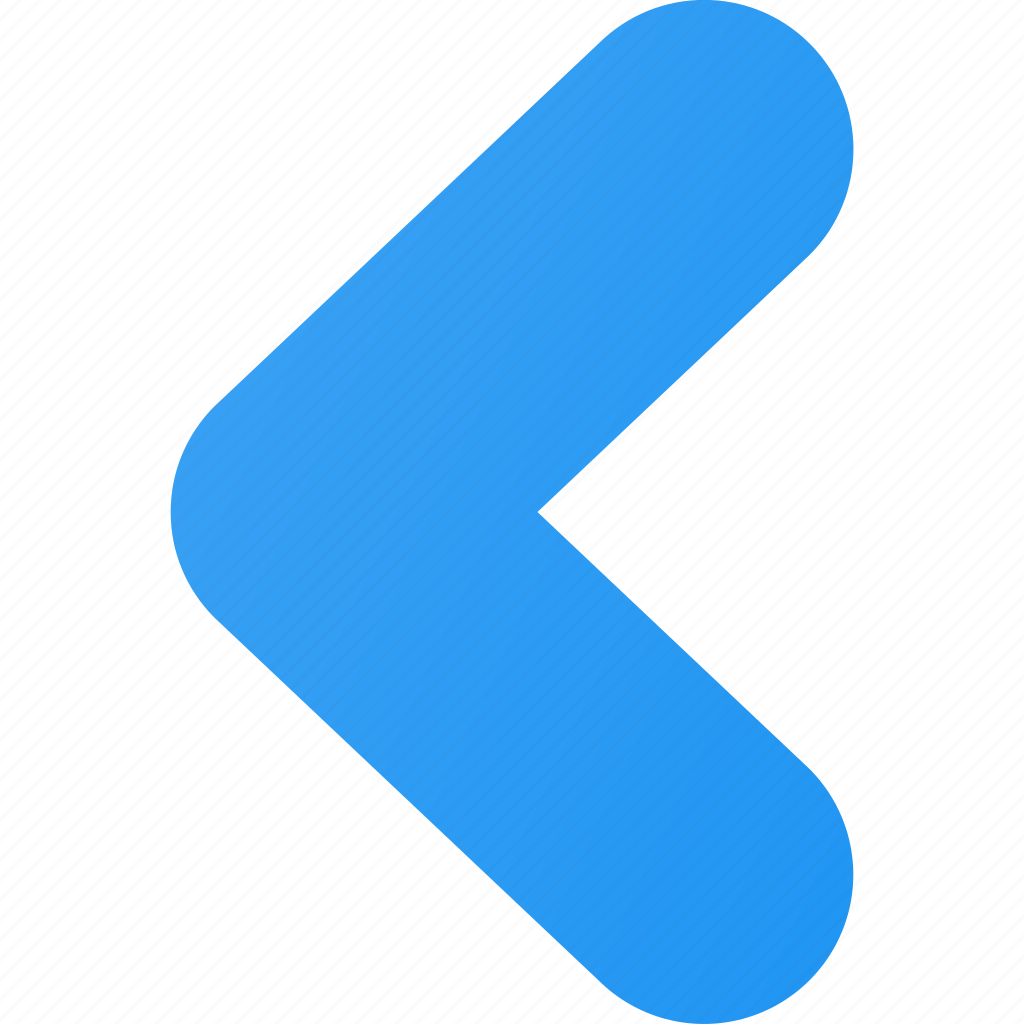
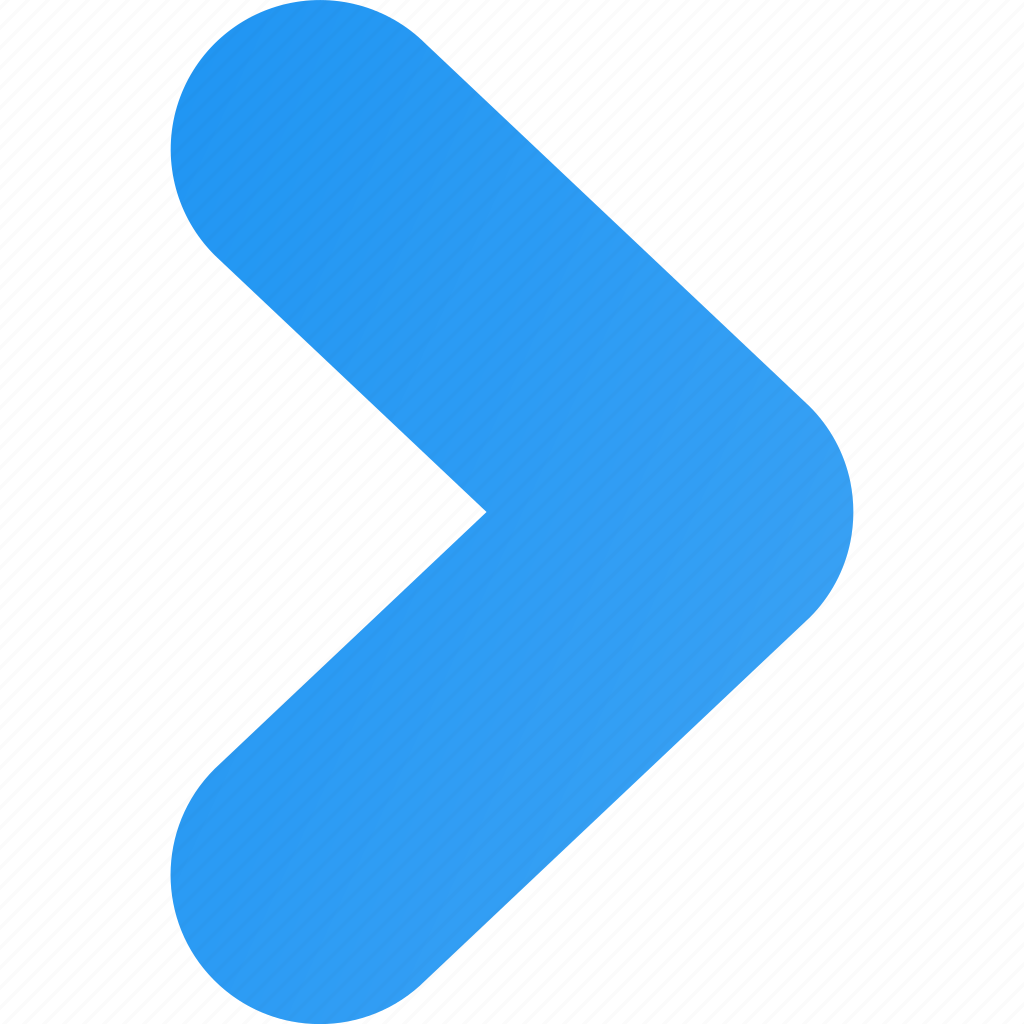
form

diff --git a/src/templates/Home/Home.jsx b/src/templates/Home/Home.jsx
@@ -1,6 +1,8 @@
 import { Link } from "react-router-dom"
 import Sidebar from '../../components/Menu/Sidebar'
 
+import ProjectForm from '../../components/Project/ProjectForm'
+
 import './Home.css';
 
 import chevron from '../../assets/images/chevron.png'
@@ -11,7 +13,7 @@ function Home() {
     const carousel = useRef(null);
 
     useEffect(() => {
-    fetch('../../../../../public/static/passeios.json')
+    fetch('/static/passeios.json')
     .then((response)=>response.json())
     .then(setData);
     }, []);
@@ -33,12 +35,12 @@ function Home() {
            <div className="p-3 w-100">
                 <nav className="fieb-logo">
                     <h1 className="title-bold">Passeios Disponíveis</h1>
-                    <h3>Passeios que estão em andamento:</h3>
+                    <h3>Passeios que estão em andamento e podem ser editados:</h3>
                         <div className="carousel" ref={carousel}>
 
 
                             {data.map((item) => {
-                                const {id, name, quant, price, unitd, local, image} = item;
+                                const {id, name, quant, price, unitd, local, data, image} = item;
                             return (
                                 <div className="item" key={id}>
                                 <div className="image">
@@ -49,7 +51,8 @@ function Home() {
                                     <span className="quant">quant. de alunos: {quant}</span>
                                     <span className="unitd">{unitd}</span>
                                     <span className="locate">{local}</span>
-                                    <span className="price">preço: {price}</span>
+                                    <span className="data">data: {data}</span>
+                                    <span className="price">preço: R${price}</span>
                                     <span className="view"><a href="/editar">Editar</a></span>
                                 </div>
                             </div>
@@ -60,13 +63,15 @@ function Home() {
                                 <button onClick={handleLeftClick}><img src={chevron} alt="scroll left" /></button>
                                 <button onClick={handleRightClick}><img src={chevron} alt="scroll right"/></button>
                             </div>
+                    <br /> <br />
+
+                    <h1 className="title-bold">Vamos Viajar?</h1>
+                    <h3>Crie o próximo passeio da FIEB:</h3>
+                            <div>
+                                <br />
+                               <ProjectForm />
+                            </div>
                     <br />
-
-                    <h1 className="title-bold">Futuros Passeios</h1>
-                    <h3>Opções que serão abertas em breve:</h3>
-
-                    
-
                     <h1 className="title-bold">Ver Avaliações</h1>
                     <h3>Avaliações Recentes:</h3>
 

diff --git a/src/templates/App/App.css b/src/templates/App/App.css
@@ -2,7 +2,7 @@
     margin: 0;
     padding: 0;
     box-sizing: border-box;
-    font-family: 'Segoe UI', Tahoma, Geneva, Verdana, sans-serif;
+    font-family: 'Segoe UI', 'Tahoma', 'Geneva', 'Verdana', 'sans-serif';
 }
 
 body {
@@ -14,79 +14,6 @@ body {
 .name{
     text-decoration: dashed;
 }
-
-
-/* Header - inicio */
-.logo {
-    height: 2em;
-}
-/* menu - inicio*/
-.menu{
-    background-color: #4D8EB2;
-    text-align: center;
- }
- .menu a {
-     color: aqua;
- }
-/* menu - fim */
-
-.navbar-nav .nav-link {
-    margin-left: 20px; 
-    color: white;
-    font-weight: 600;
-}
-.navbar-nav .nav-link:hover {
-    color: #ffcc00;
-}
-
-.btn-primary {
-    background-color: #0056b3; /* Cor do botão */
-}
-/* Header - fim */
-
-
-/* footer - inicio */
-footer{
-    background-image: linear-gradient(to bottom, #4D8EB2, #aaa);
-    padding: 10px;
-    text-align: center;
-}
-
-.fieb-tech {
-    display: center;
-    padding-top: 1em;
-    padding-bottom: 2em;
-}
-
-.titulo-footer {
-    color:aqua;
-    font-weight: bold;
-    text-align:unset;
-}
-.link-footer {
-    color:#fff;
-    text-decoration: none;
-}
-.lista-footer {
-    list-style-type: none;
-}
-
-.copyright {
-    color:aliceblue;
-    padding-top: 2em;
-    text-decoration: dashed;
-}
-
-.titleError {
-    padding-top: 1em;
-    font-weight: 700;
-}
-.Error {
-    height: 7em;
-    margin-top: 4em;
-    margin-bottom: 5.2em;
-}
-/* footer - fim */
 
 .painel {
     background-color: #fff;

diff --git a/src/components/Project/ProjectForm.jsx b/src/components/Project/ProjectForm.jsx
@@ -1,0 +1,30 @@
+import './ProjectForm.css'
+
+const ProjectForm = () => {
+
+    return (
+        <div>
+            <form>
+                <h4 className="text">Nome: <input type="text" placeholder="Insira o nome do passeio"/></h4>
+                <h4 className="text">Quant. de alunos: <input type="number" placeholder="Insira o número máx de alunos" /></h4>
+                <h4 className="text">Unidade: <select name="unitd">
+                    <option disabled selected>Selecione qual Unidade está envolvida</option>
+                    <option>ITB Brasílio Flores - Jd. Belval</option>
+                    <option>ITB Maria Theoroda - </option>
+                    <option>ITB Maria Challupe - Eng. Novo</option>
+                    <option>ITB Moacyr Domingos - Pq. Imperial</option>
+                    <option>ITB Antonio Arantes - Pq. Viana</option>
+                    <option>ITB Hércules Alves - Jd. Mutinga</option>
+                    <option>Toda a FIEB</option>
+                </select> </h4>
+                <h4 className="text">Local: <input type="text" placeholder="Insira o local do passeio:" /> </h4>
+                <h4 className="text">Valor: R$<input type="number" placeholder="Insira o valor total do passeio(ingresso + transporte):" /> </h4>
+                <div>
+                    <input type="submit" value="Criar passeio" />
+                </div>
+            </form>
+        </div>
+    )
+}
+
+export default ProjectForm

diff --git a/src/templates/Home/Home.css b/src/templates/Home/Home.css
@@ -17,7 +17,7 @@
     margin: 10px;
     padding: 10px;
     width: 280px;
-    height: 480px;
+    height: 495px;
     border-radius: 16px;
 }
 
@@ -29,7 +29,7 @@
 }
 
 .fieb-logo .carousel .item .info {
-    height: 4em;
+    height: 5em;
     display: flex;
     flex-direction: column;
     justify-content: space-between;
@@ -49,9 +49,10 @@
     font-weight: bold;
 }
 
-a{
+.fieb-logo .carousel .item .info a{
     font-style: none;
     text-decoration: none;
+    font-weight: 700;
     color: inherit;
 }
 
@@ -85,5 +86,5 @@ a{
     cursor: pointer;
 }
 .fieb-logo .buttons button:first-child img{
-    transform: rotate(180deg);
+    transform: rotate(-180deg);
 }

diff --git a/src/components/Footer/Footer.css b/src/components/Footer/Footer.css
@@ -1,0 +1,40 @@
+footer{
+    background-image: linear-gradient(to bottom, #4D8EB2, #aaa);
+    padding: 10px;
+    text-align: center;
+}
+
+.fieb-tech {
+    display: center;
+    padding-top: 1em;
+    padding-bottom: 2em;
+}
+
+.titulo-footer {
+    color:aqua;
+    font-weight: bold;
+    text-align:unset;
+}
+.link-footer {
+    color:#fff;
+    text-decoration: none;
+}
+.lista-footer {
+    list-style-type: none;
+}
+
+.copyright {
+    color:aliceblue;
+    padding-top: 2em;
+    text-decoration: dashed;
+}
+
+.titleError {
+    padding-top: 1em;
+    font-weight: 700;
+}
+.Error {
+    height: 7em;
+    margin-top: 4em;
+    margin-bottom: 5.2em;
+}

diff --git a/src/components/Project/ProjectForm.css b/src/components/Project/ProjectForm.css
@@ -1,0 +1,36 @@
+h4.text {
+    margin: 10px 0;
+    font-weight: 600;
+}
+
+input[type="text"],
+input[type="number"],
+select {
+    width:99%;
+    padding: 0px;
+    margin: 5px 0 20px;
+    border: 1px solid #ddd;
+    border-radius: 4px;
+}
+
+input[type="submit"] {
+    background-color: #4D8EB2;
+    color: white;
+    padding: 10px 15px;
+    border: none;
+    border-radius: 4px;
+    cursor: pointer;
+    transition: background-color 0.3s;
+}
+
+input[type="submit"]:hover {
+    background-color: #4d60b2;;
+}
+
+input::placeholder {
+    color: #888;
+}
+
+select {
+    cursor: pointer;
+}

diff --git a/src/components/Header/Header.css b/src/components/Header/Header.css
@@ -1,0 +1,25 @@
+.logo {
+    height: 2em;
+}
+/* menu - inicio*/
+.menu{
+    background-color: #4D8EB2;
+    text-align: center;
+ }
+ .menu a {
+     color: aqua;
+ }
+/* menu - fim */
+
+.navbar-nav .nav-link {
+    margin-left: 20px; 
+    color: white;
+    font-weight: 600;
+}
+.navbar-nav .nav-link:hover {
+    color: #ffcc00;
+}
+
+.btn-primary {
+    background-color: #0056b3; /* Cor do botão */
+}

diff --git a/src/components/Header/Header.jsx b/src/components/Header/Header.jsx
@@ -2,6 +2,8 @@ import React from "react";
 import logo from '../../assets/images/fiebl.png';
 import { Link } from 'react-router-dom';
 
+import './Header.css';
+
 function Header() {
     return (
         <div>

diff --git a/src/components/Footer/Footer.jsx b/src/components/Footer/Footer.jsx
@@ -2,6 +2,8 @@ import React from 'react';
 
 import fiebtech from '../../assets/images/fiebtech.png';
 
+import './Footer.css';
+
 function Footer() {
   return (
     <div>

diff --git a/src/components/Menu/Sidebar.css b/src/components/Menu/Sidebar.css
@@ -1,6 +1,6 @@
 .sidebar{
-    width: 200px;
-    height: 100vh;
+    width: 160px;
+    height: 170vh;
     background-color: #447f9e;
   }
   
